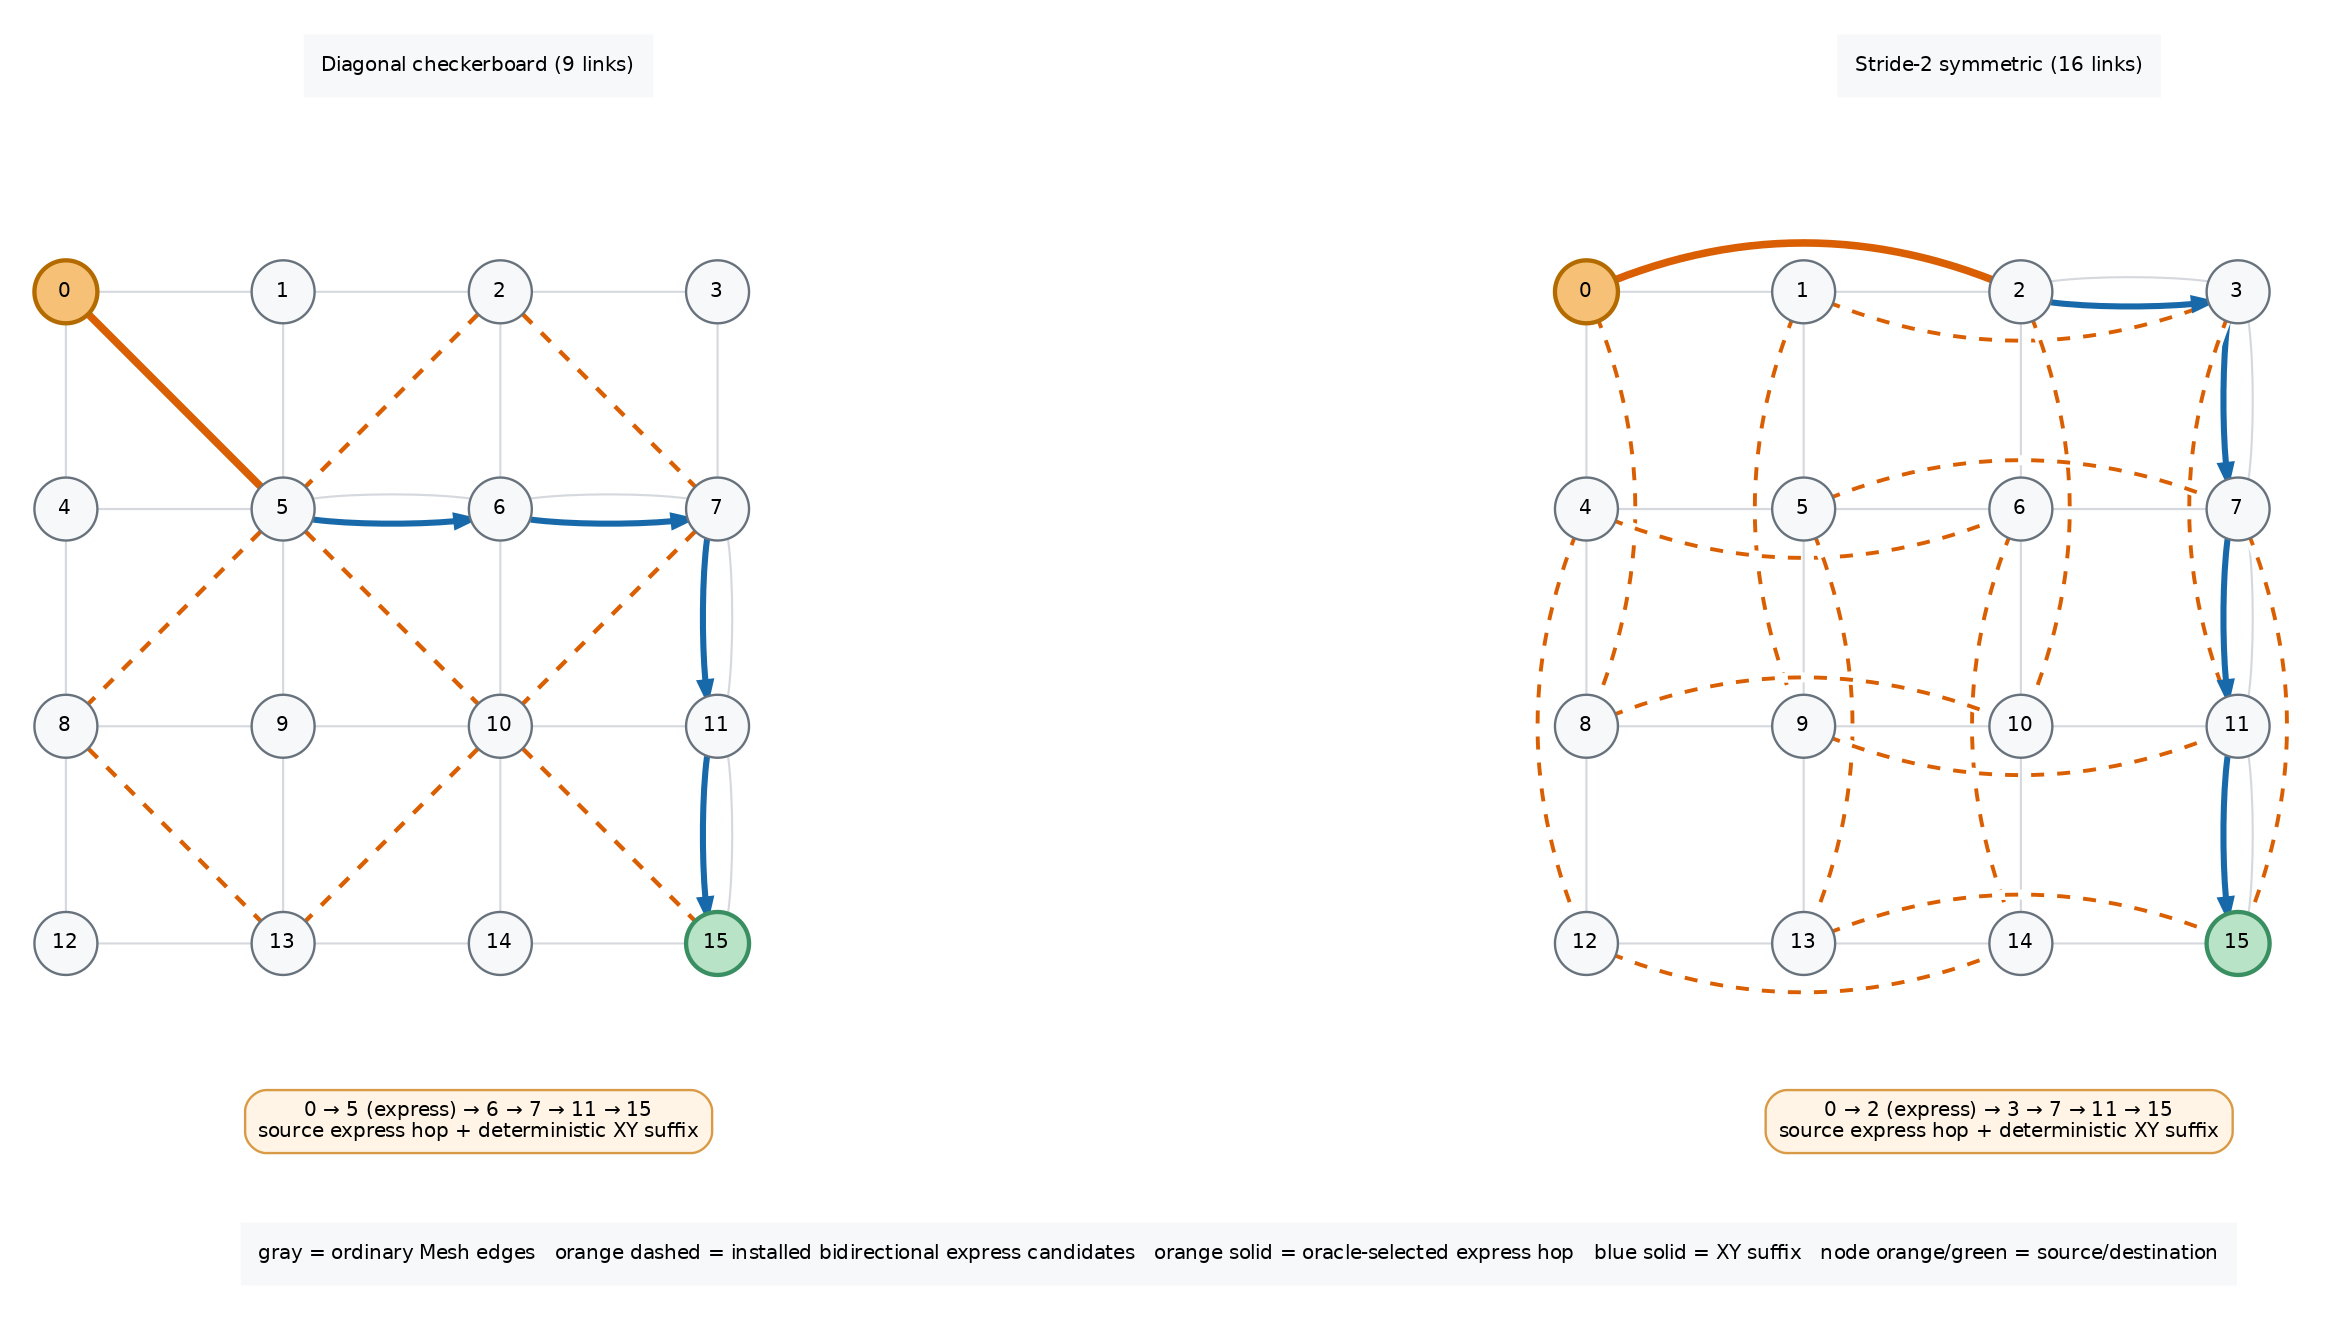
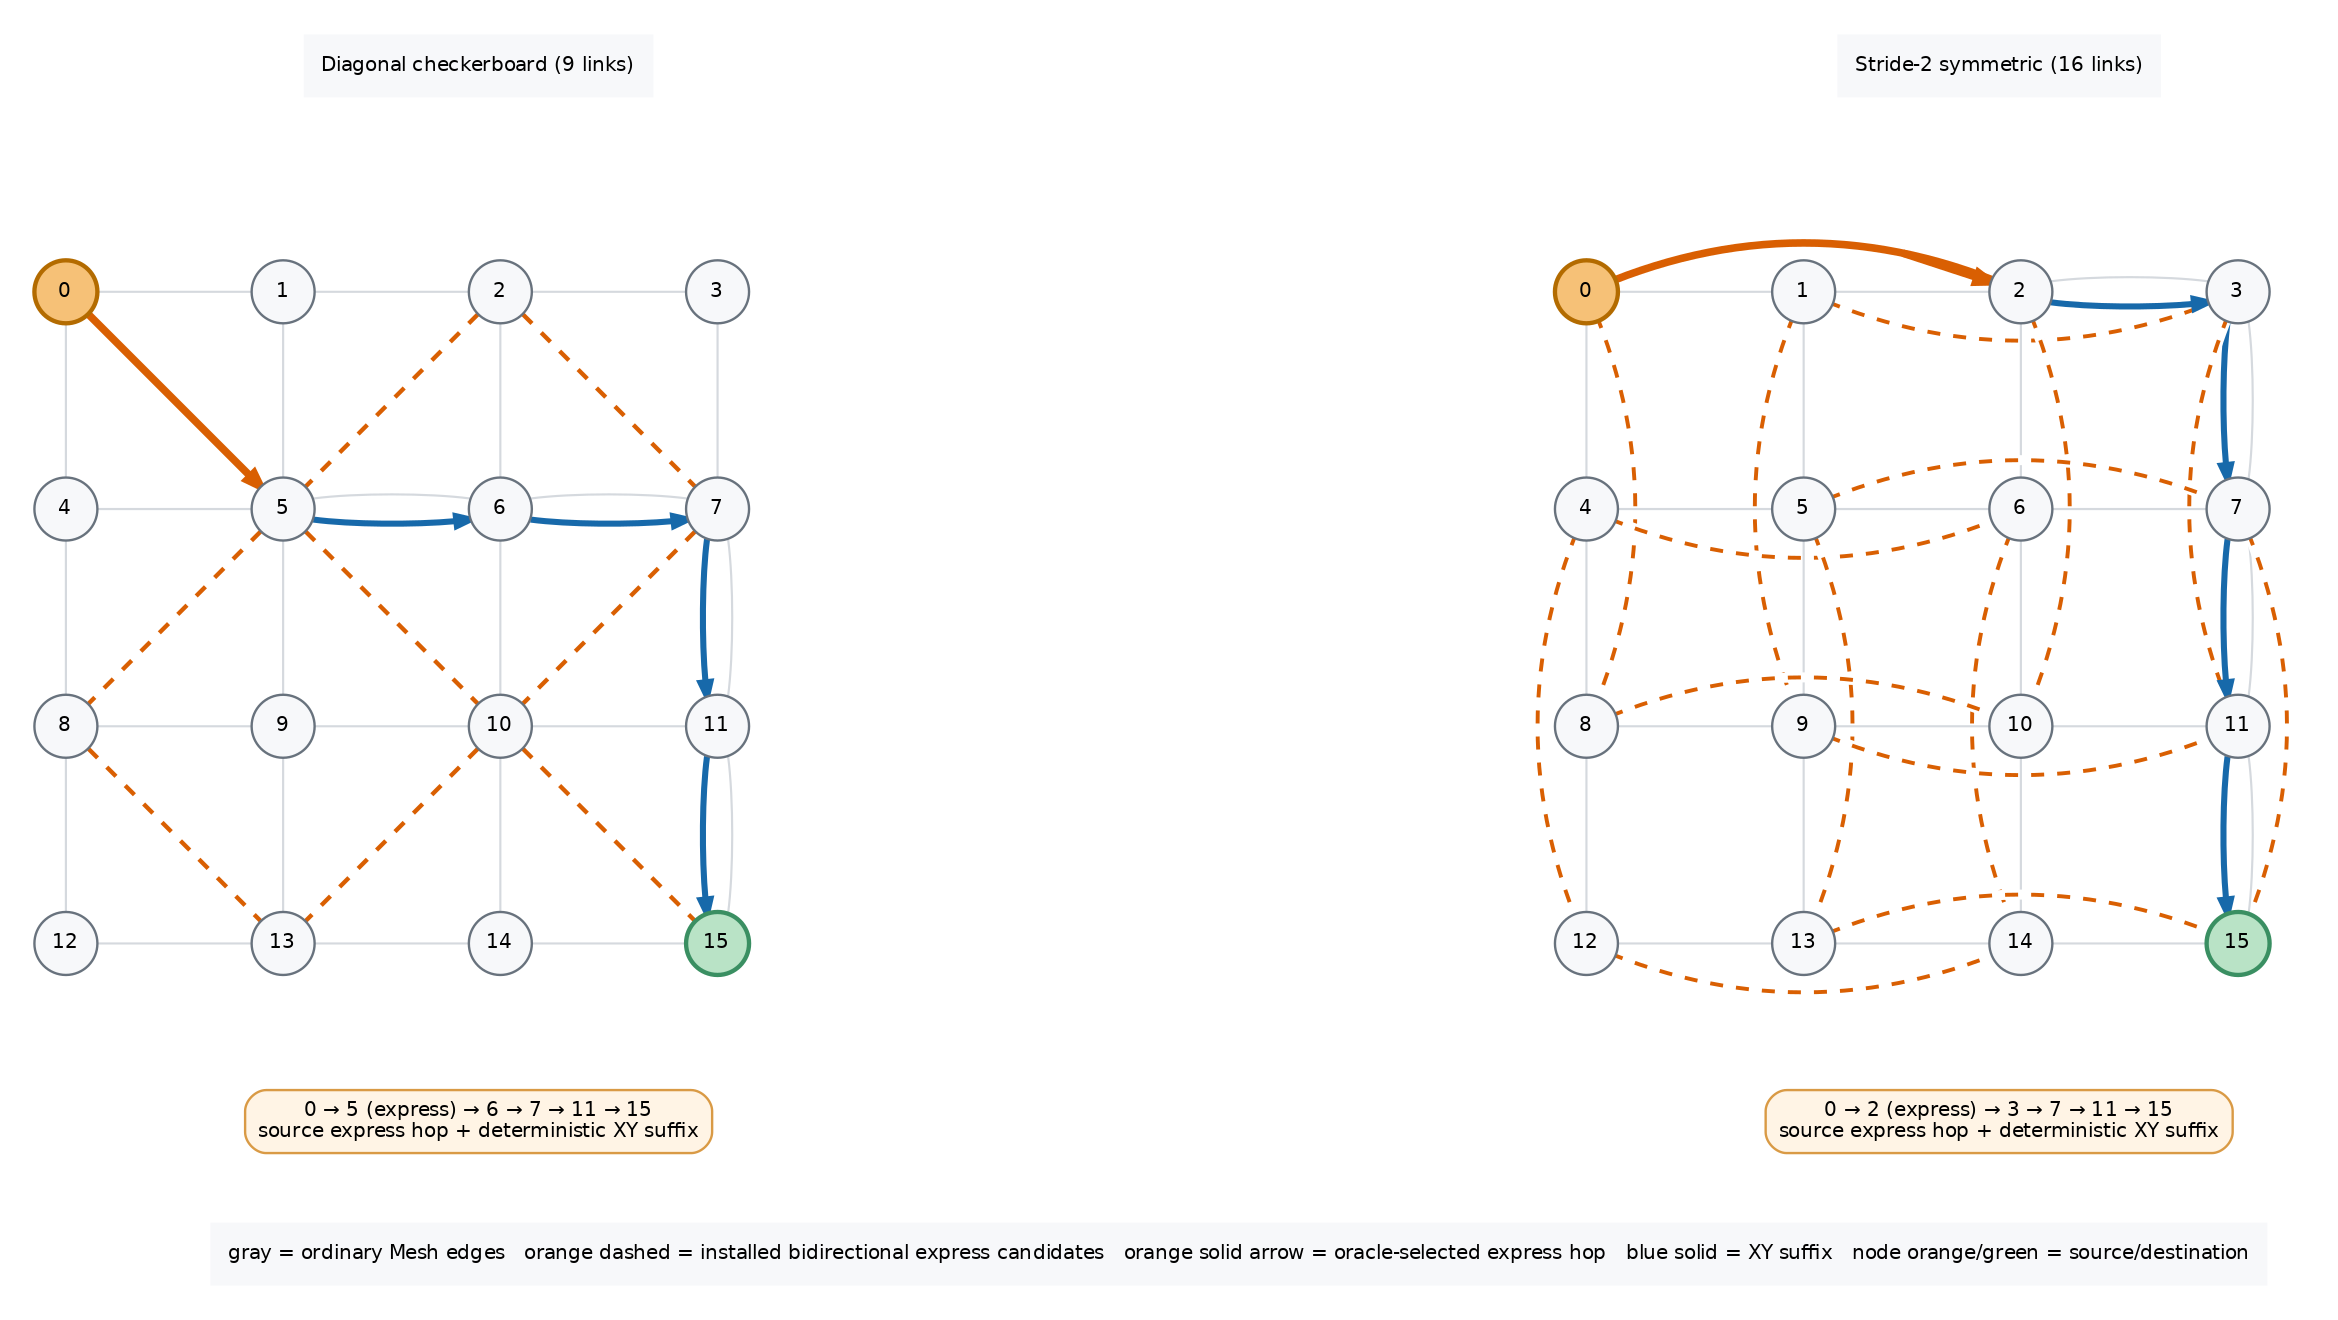
report: clarify bypass route arrows

Changed region(s): [[0.0937, 0.9318, 0.9679, 0.9629]]

diff --git a/report/scripts/generate_architecture_figures.py b/report/scripts/generate_architecture_figures.py
@@ -220,6 +220,11 @@ def bypass_figure() -> str:
         'edge [fontname="Helvetica", fontsize=8, arrowsize=0.55];',
         mesh_nodes("D", 0.0, source=0, destinations=(15,)),
         mesh_nodes("S", 7.0, source=0, destinations=(15,)),
+        # Invisible waypoint used only to give the curved S0 -> S2 overlay a
+        # normal Graphviz-clipped arrowhead at S2, matching the multicast
+        # figure's directed-edge treatment.
+        's_express_arrow_tail [shape=point, fixedsize=true, width=0.01, '
+        'height=0.01, label="", style=invis, pos="8.45,3.18!"];',
         mesh_edges("D", 0.0),
         mesh_edges("S", 7.0),
         'd_title [shape=plaintext, fixedsize=false, label="Diagonal checkerboard (9 links)", '
@@ -235,7 +240,7 @@ def bypass_figure() -> str:
         'label="0 → 2 (express) → 3 → 7 → 11 → 15\\n'
         'source express hop + deterministic XY suffix", pos="8.9,-0.82!"];',
         'legend [shape=plaintext, fixedsize=false, label="gray = ordinary Mesh edges   orange dashed = installed bidirectional express candidates   '
-        'orange solid = oracle-selected express hop   blue solid = XY suffix   node orange/green = source/destination", '
+        'orange solid arrow = oracle-selected express hop   blue solid = XY suffix   node orange/green = source/destination", '
         'pos="5.4,-1.43!"];',
     ]
     for src, dst in diagonal:
@@ -269,15 +274,24 @@ def bypass_figure() -> str:
     ):
         for src, dst in zip(route, route[1:]):
             color = "#d95f02" if (src, dst) == express else "#1769aa"
-            edge_pos = ""
-            if prefix == "D" and (src, dst) == express:
-                edge_pos = f", {straight_edge_pos(src, dst, 0.0)}"
-            elif prefix == "S" and (src, dst) == express:
-                edge_pos = f", {curved_edge_pos(src, dst, 7.0, bend=0.30)}"
+            if prefix == "S" and (src, dst) == express:
+                # Keep the installed link's bowed geometry clear of Router 1,
+                # then let Graphviz place and clip the final arrow exactly as
+                # it does for the multicast figure's ordinary directed edges.
+                edge_pos = curved_edge_pos(src, dst, 7.0, bend=0.30)
+                lines.append(
+                    f'{prefix}{src} -> {prefix}{dst} [dir=none, '
+                    f'color="{color}", penwidth=3.5, {edge_pos}];'
+                )
+                lines.append(
+                    f's_express_arrow_tail -> {prefix}{dst} '
+                    f'[color="{color}", penwidth=3.5, arrowsize=0.65];'
+                )
+                continue
             lines.append(
                 f'{prefix}{src} -> {prefix}{dst} [color="{color}", '
                 f'penwidth={3.5 if color == "#d95f02" else 2.8}, '
-                f'arrowsize=0.65{edge_pos}];'
+                f'arrowsize=0.65];'
             )
     for prefix in ("D", "S"):
         lines.extend([
